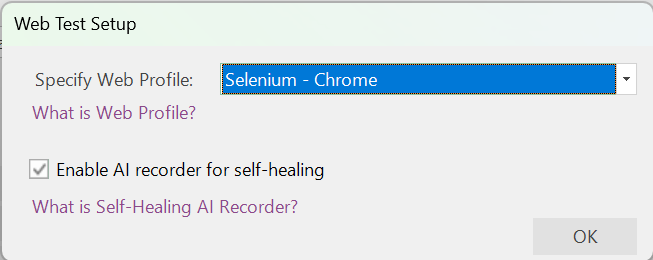
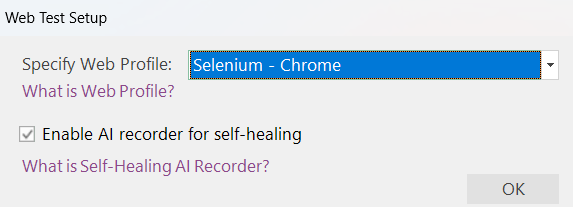
Cosmetics

diff --git a/docs/Guide/web_self_healing.md b/docs/Guide/web_self_healing.md
@@ -22,7 +22,7 @@ The `airecorder` tag controls whether self-healing information is captured durin
 
 When creating a new testing framework, you can enable the Self-Healing AI Recorder by checking the corresponding option in the Web Test Setup dialog:
 
-![Web Test Setup](./img/web_self_healing_add_framework.png)
+![Web Test Setup](./img/web_self_healing_add_framework.png){width="469px"}
 
 This sets the `airecorder` tag as the default for all new test cases added to the framework.
 
@@ -30,7 +30,7 @@ This sets the `airecorder` tag as the default for all new test cases added to th
 
 When adding a test case to the framework, the `airecorder` tag is shown in the Tags section. If it was enabled at the framework level, the tag is checked by default:
 
-![Add Test Case](./img/web_self_healing_add_test_case.png)
+![Add Test Case](./img/web_self_healing_add_test_case.png){width="668px"}
 
 You can enable or disable the `airecorder` tag for each test case individually. The framework-level setting only affects the default state of the checkbox when creating a new test case. The tag can also be set or unset at any time after the test case is created.
 

diff --git a/docs/Guide/web_smart_action.md b/docs/Guide/web_smart_action.md
@@ -13,9 +13,9 @@ SmartAction follows a multi-level recovery process:
 1. **Standard Lookup**: First, attempts to find the object using the standard object repository.
 2. **AI-Based Recovery (Level 1)**: If not found, uses AI to locate the object based on its description.
 3. **Deep Inspection (Level 2)**: If still not found, performs a deeper AI analysis considering:
-   - Whether the object might appear with a different presentation
-   - Whether the page is still loading and we should wait
-   - Whether the action is optional and can be skipped
+    - Whether the object might appear with a different presentation
+    - Whether the page is still loading and we should wait
+    - Whether the action is optional and can be skipped
 
 ### Recovery Resolutions
 
